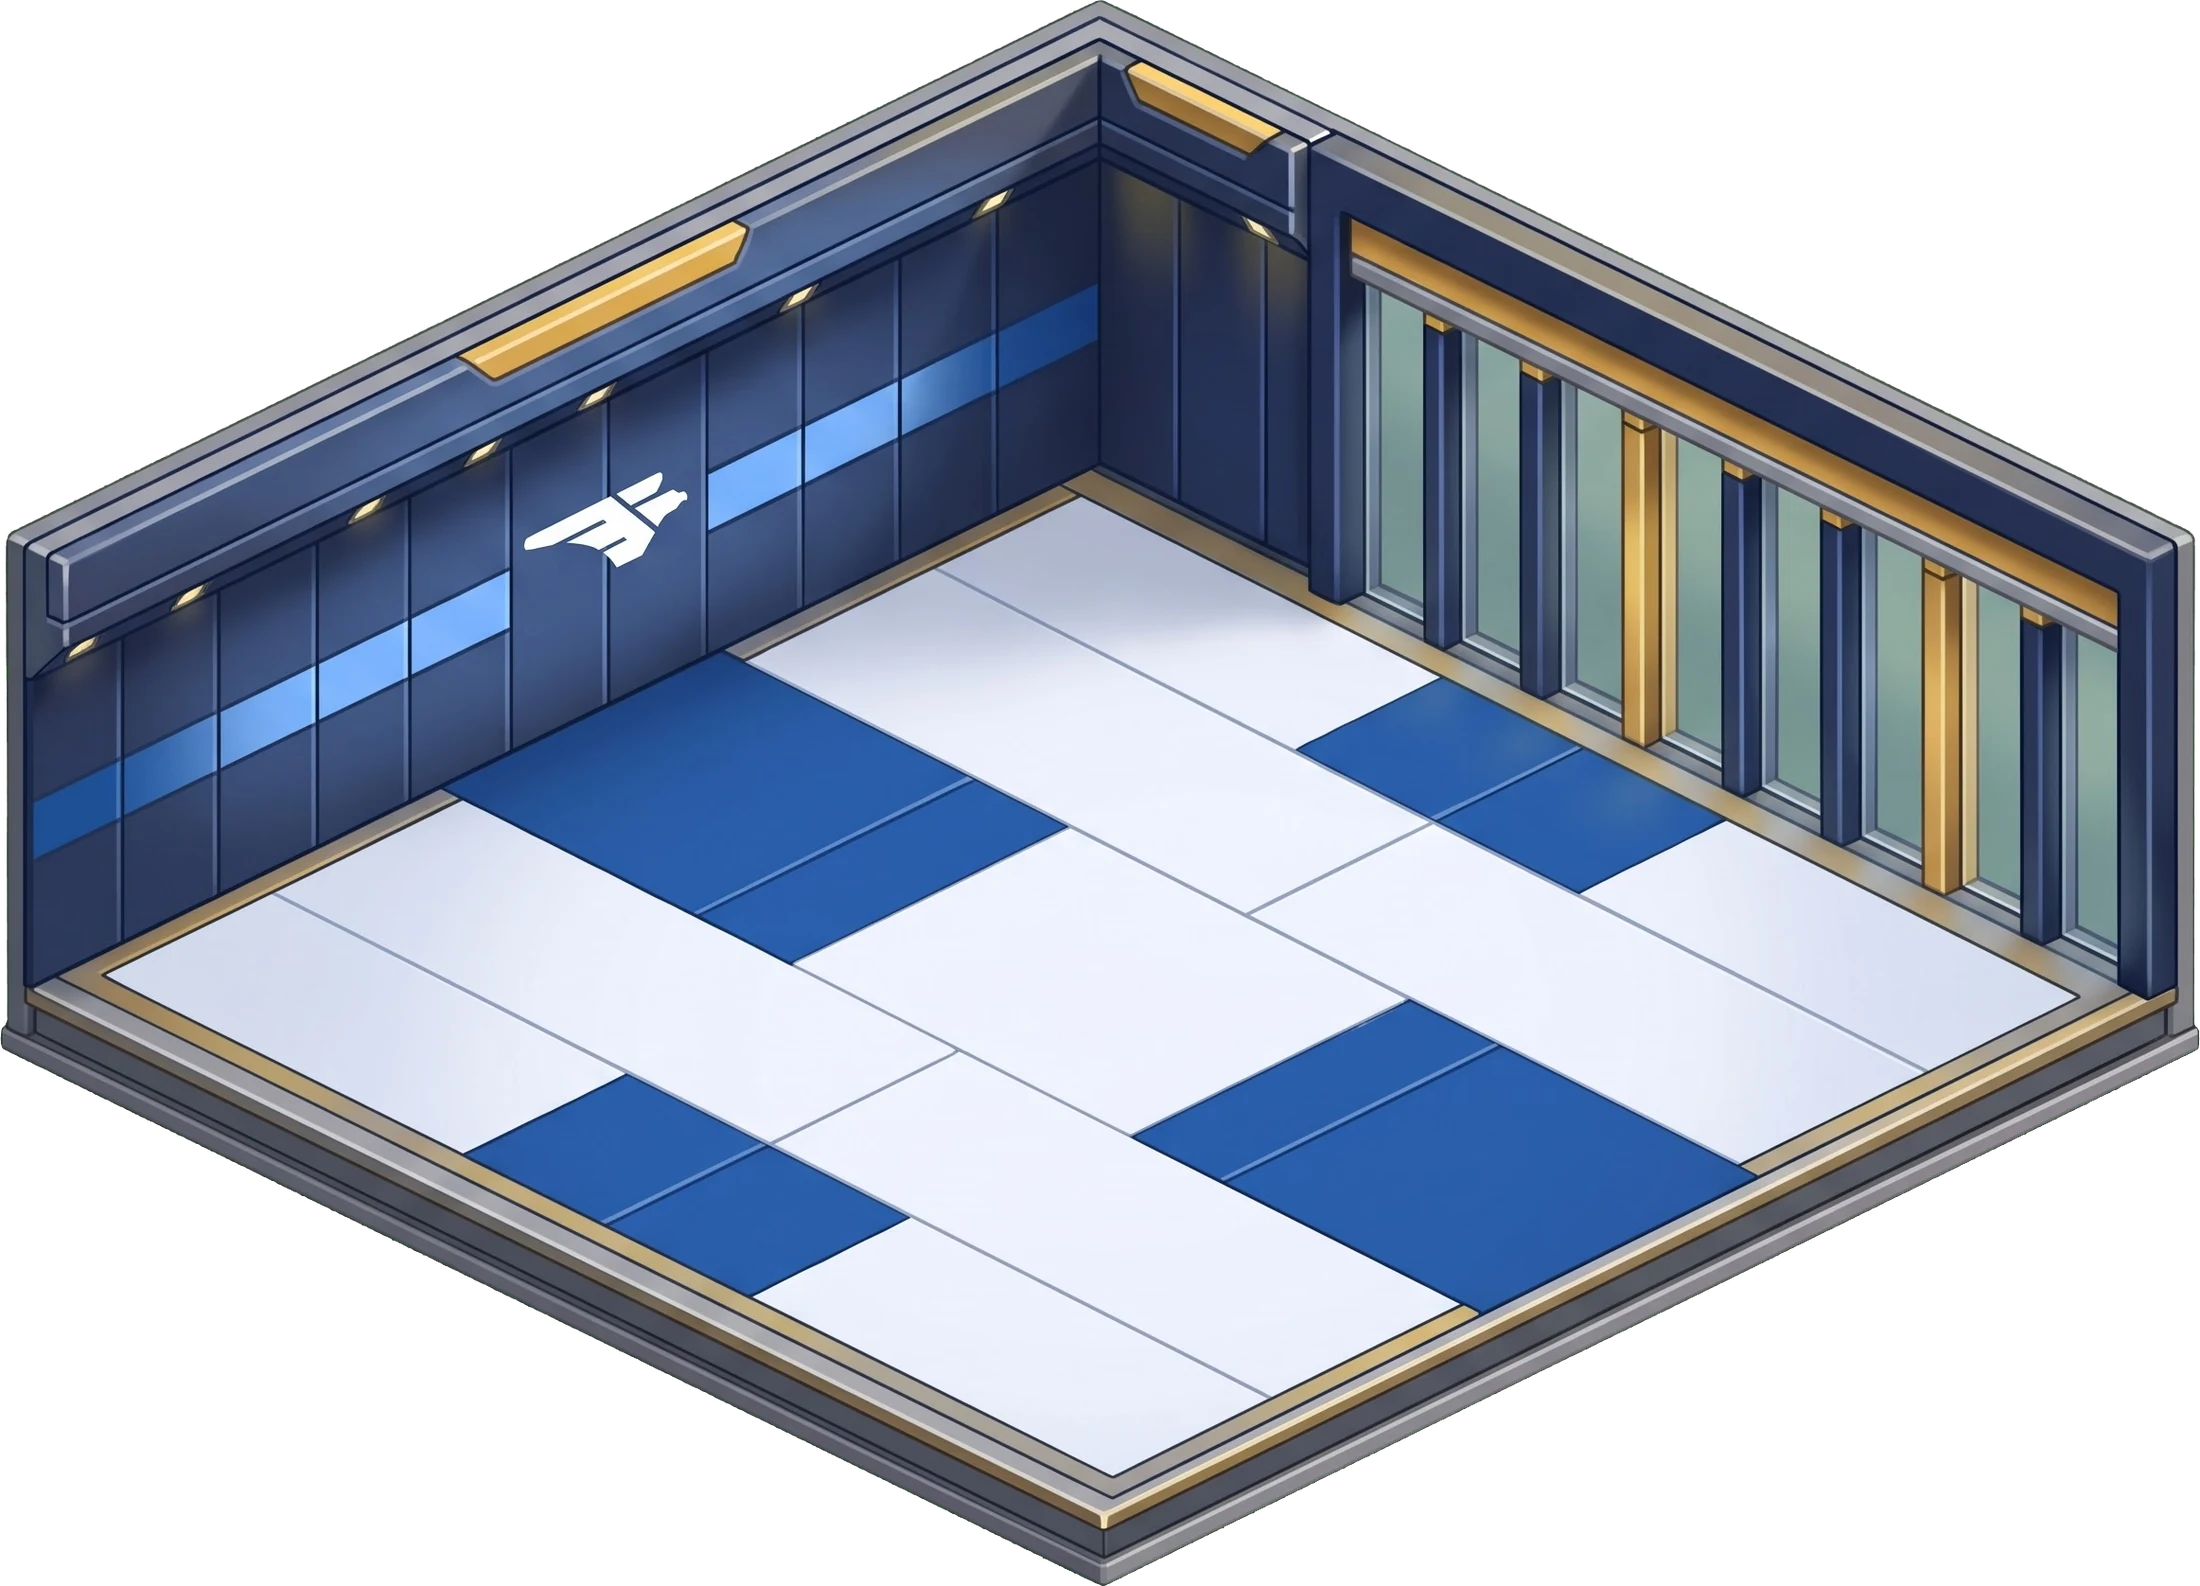
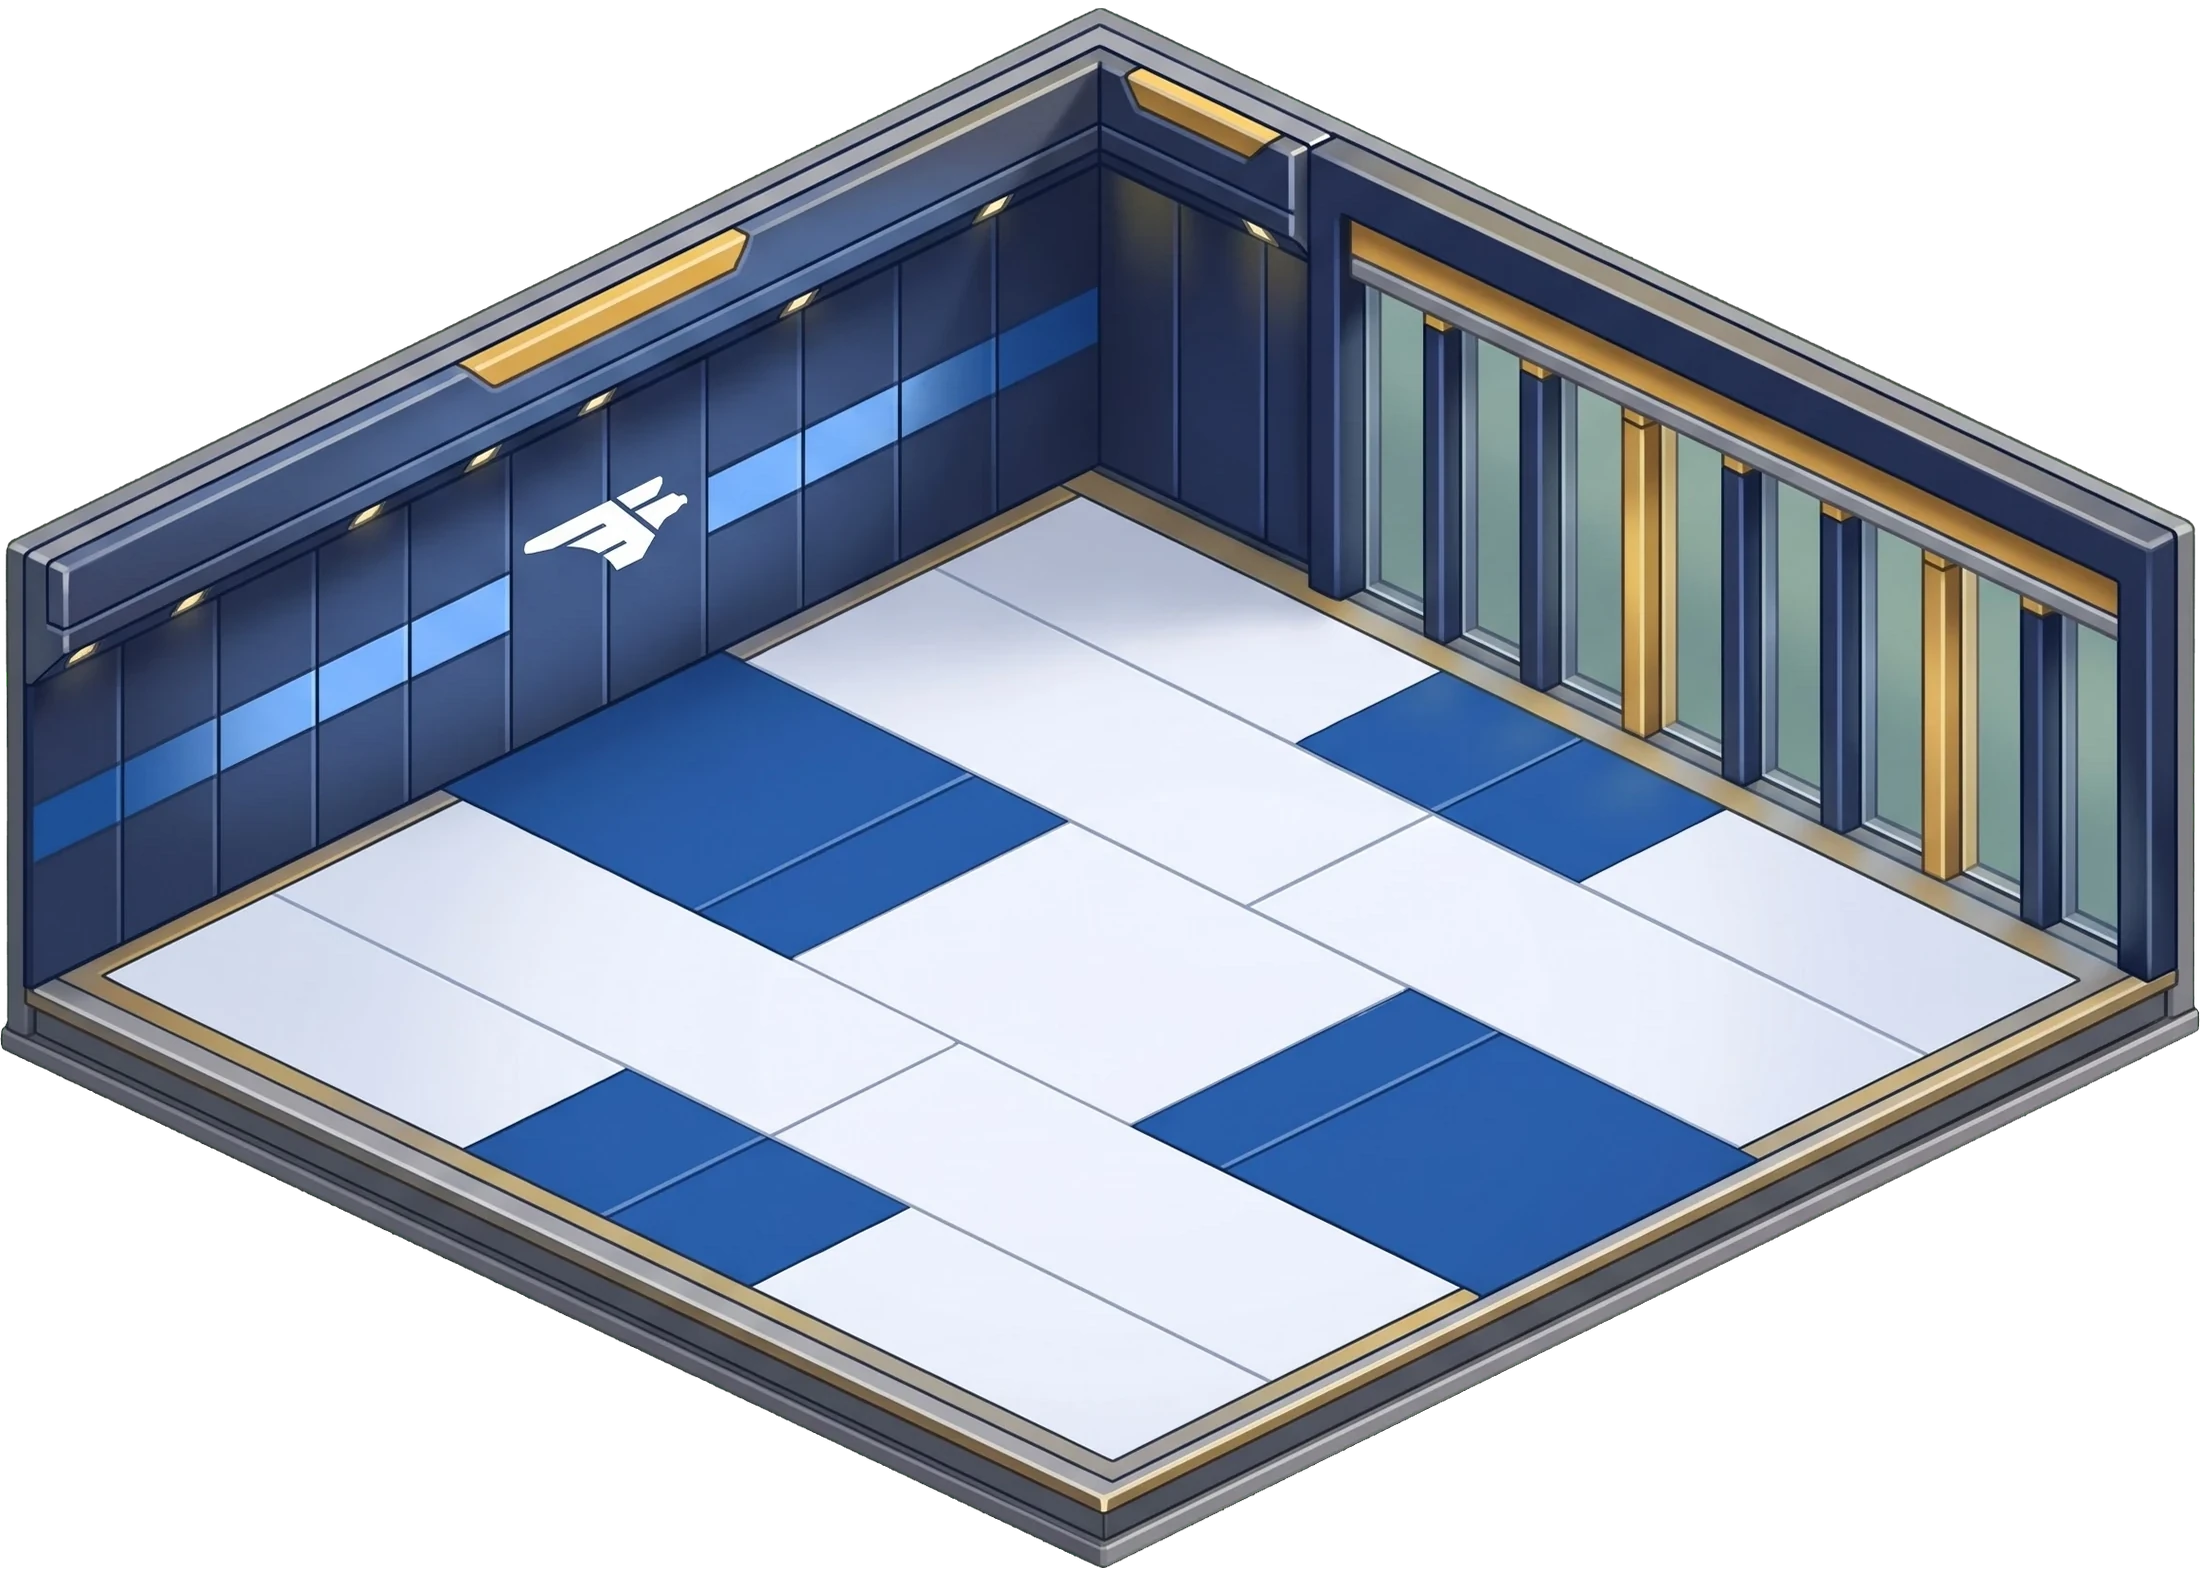
Straighten the 16 x 16 locker room, fix the street railing flaps and the market props
- The locker picture is sheared so both floor directions have the game's slope (0.489,
  was 0.506 / 0.488), keeping its width and the floor's x positions; new corners and size.
- The street railing's front half had the start of each back side of the kerb, which
  showed as a flap over the room's walls; that part is in the back half now.
- The left markets' two lamp posts are gone (pale, standing up out of the new bases), and
  the two left trees are mirrored to hide the seam and kiosk wall left from their cut.

diff --git a/js/core/placement.js b/js/core/placement.js
@@ -44,7 +44,7 @@ export const ROOM_GEOMETRY = {
   // its floor's inner corners measured on the model itself. It fills the roof: `share` is its
   // floor's width as a share of the slab's, which puts the outside of its walls (96.6% of the
   // picture's width to the floor's 91.1%) just under the railing's inner edge (86.1% of the slab)
-  'locker-16': { ...floor([49.94, 29.77], [98.97, 62.47], [1.33, 62.17], 16, 16), share: 0.818 },
+  'locker-16': { ...floor([50.15, 28.87], [98.97, 62.19], [1.33, 62.19], 16, 16), share: 0.818 },
 };
 // the same 16 × 16 room before it's expanded: only the 8 × 8 in its back corner can be used, with
 // the rest of the floor taped off, so you can see how much bigger it gets (`limit`: usable tiles)
@@ -53,7 +53,7 @@ ROOM_GEOMETRY['locker-16-tape'] = { ...ROOM_GEOMETRY['locker-16'], limit: 8 };
 /** Art size of each room shape (px of the exported WebP), for laying the compound out. */
 export const ROOM_SIZE = {
   gym: [1100, 1052], pool: [1100, 991], bike: [1100, 1051], run: [1100, 1115],
-  'locker-square': [1100, 995], 'locker-landscape': [2200, 1677], 'locker-16': [2200, 1586], 'locker-16-tape': [2200, 1586],
+  'locker-square': [1100, 995], 'locker-landscape': [2200, 1677], 'locker-16': [2200, 1576], 'locker-16-tape': [2200, 1576],
 };
 
 // levels with no art yet fall back to the nearest one below (the gym has no 7)

diff --git a/js/core/diorama.js b/js/core/diorama.js
@@ -51,9 +51,11 @@ export function towerPieces(n) {
 
 // the railing round the slab (tools/cut-rail.py): its back half stands behind the room, its front
 // half in front of it; in px of the city picture for the street floor and for floor 1 (the roof
-// slab every floor above stands on, a storey higher each floor)
+// slab every floor above stands on, a storey higher each floor). The street pair was touched up
+// by hand after the cut: the start of each back side of the kerb, past the corner posts, was in the
+// front half and showed as a flap over the room's walls; it is in the back half now (taller for it)
 const RAIL = {
-  street: { back: { x: 1858.0, y: 2432.0, w: 1652.0, h: 305.3 }, front: { x: 1779.3, y: 2733.3, w: 1829.3, h: 561.3 } },
+  street: { back: { x: 1858.0, y: 2432.0, w: 1652.0, h: 433.3 }, front: { x: 1779.3, y: 2733.3, w: 1829.3, h: 561.3 } },
   roof: { back: { x: 1880.3, y: 2039.3, w: 1678.7, h: 373.3 }, front: { x: 1817.7, y: 2407.3, w: 1814.7, h: 564.0 } },
 };
 /** Floor n's railing: { back, front }, each { src, x, y, w, h } in px of the city picture. */

diff --git a/js/app/market-view.js b/js/app/market-view.js
@@ -51,9 +51,9 @@ const ART = {
 const DRESSING = [
   { src: 'prop-0', left: 1615.5, top: 3018.0, w: 89.5, foot: 3176.0 },
   { src: 'prop-1', left: 1860.5, top: 3142.5, w: 89.5, foot: 3301.5 },
-  { src: 'prop-2', left: 1813.5, top: 3186.0, w: 45.0, foot: 3333.5 },
+  // (prop-2 and prop-4, the two lamp posts in front of the left markets, are gone: cut from
+  // the old render, they came out pale and stood up out of the new markets' bases)
   { src: 'prop-3', left: 2132.5, top: 3221.5, w: 122.0, foot: 3437.5 },
-  { src: 'prop-4', left: 2062.5, top: 3312.5, w: 45.0, foot: 3459.5 },
   { src: 'prop-5', left: 3773.5, top: 3062.0, w: 58.0, foot: 3222.5 },
   { src: 'prop-6', left: 3488.5, top: 3145.0, w: 79.5, foot: 3300.0 },
   { src: 'prop-7', left: 3181.5, top: 3207.0, w: 119.0, foot: 3424.0 },

diff --git a/docs/MARKETS.md b/docs/MARKETS.md
@@ -31,7 +31,7 @@ The numbers live in `js/core/markets.js` (`MARKET_RULES`) and in `market_rules()
   - Six pictures, one per level and facing, generated on green and keyed. The left pair (`-l`) face down-left, along the lobby's left wall; the right pair (`-r`) face down-right, along its right wall.
   - Each stands by its foot (its front corner, the picture's lowest point) on the ground where its kiosk's corner was.
   - 3D models were tried first and dropped: real-time light and blob shadows made them look pasted on next to the painted city.
-- **Trees and lamp posts** (`prop-0..8.webp`, `DRESSING` in `market-view.js`) are the city picture's own painted ones. They were cut out of the original render, before the kiosks were painted out, and are stored at 2x with their exact box in px of the city picture. So they stand exactly where they were, five on the left and four on the right. They're drawn in depth order with the markets by their foot, so the nearer ones stand in front.
+- **Trees and lamp posts** (`prop-0..8.webp`, `DRESSING` in `market-view.js`) are the city picture's own painted ones. They were cut out of the original render, before the kiosks were painted out, and are stored at 2x with their exact box in px of the city picture. So they stand exactly where they were, three on the left and four on the right. The two lamp posts in front of the left markets (`prop-2`, `prop-4`) were dropped: they came out pale and stood up out of the new markets' bases. The two left trees (`prop-0`, `prop-1`) are mirrored about their trunks, because the cut left a seam and a piece of the old kiosk wall in them. They're drawn in depth order with the markets by their foot, so the nearer ones stand in front.
 - **Tapping a market** (`market-view.js`) makes it grow and spring back from its foot, and brings up a bar over the dock: "Market (Level 1)" over square beige buttons.
   - Info is always there.
   - A bought market has Collect, with the coins waiting, and Upgrade (with its price) while there's a level above.
